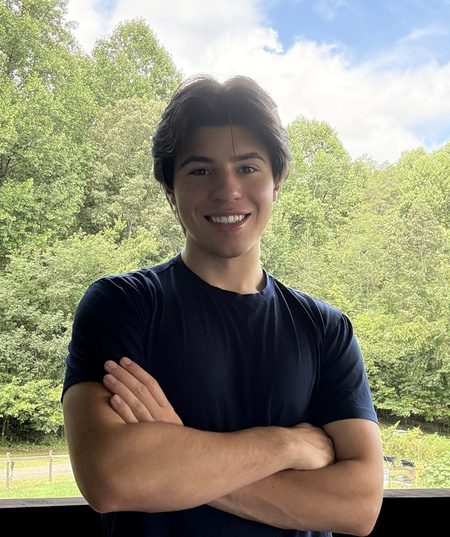
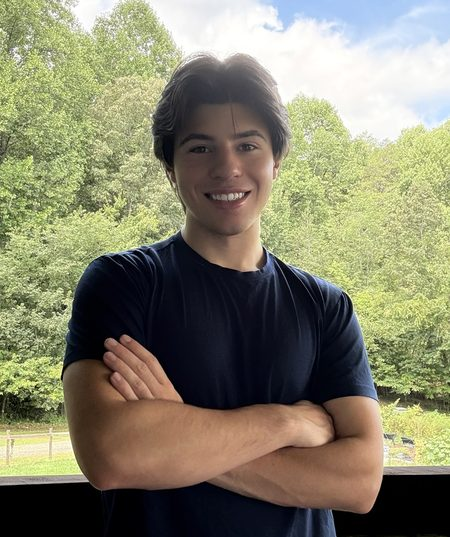
Portrait: settle headroom between v4 and v5

diff --git a/index.html b/index.html
@@ -71,7 +71,7 @@
 
   <main class="home-main">
     <div class="home-cover">
-      <img class="home-portrait" src="/portrait.jpg?v=5" alt="Chase Roll" width="450" height="537" fetchpriority="high" />
+      <img class="home-portrait" src="/portrait.jpg?v=6" alt="Chase Roll" width="450" height="537" fetchpriority="high" />
       <div class="home-cover-text">
       <div class="home-name-row">
         <h1 class="home-name">Chase Roll</h1>
